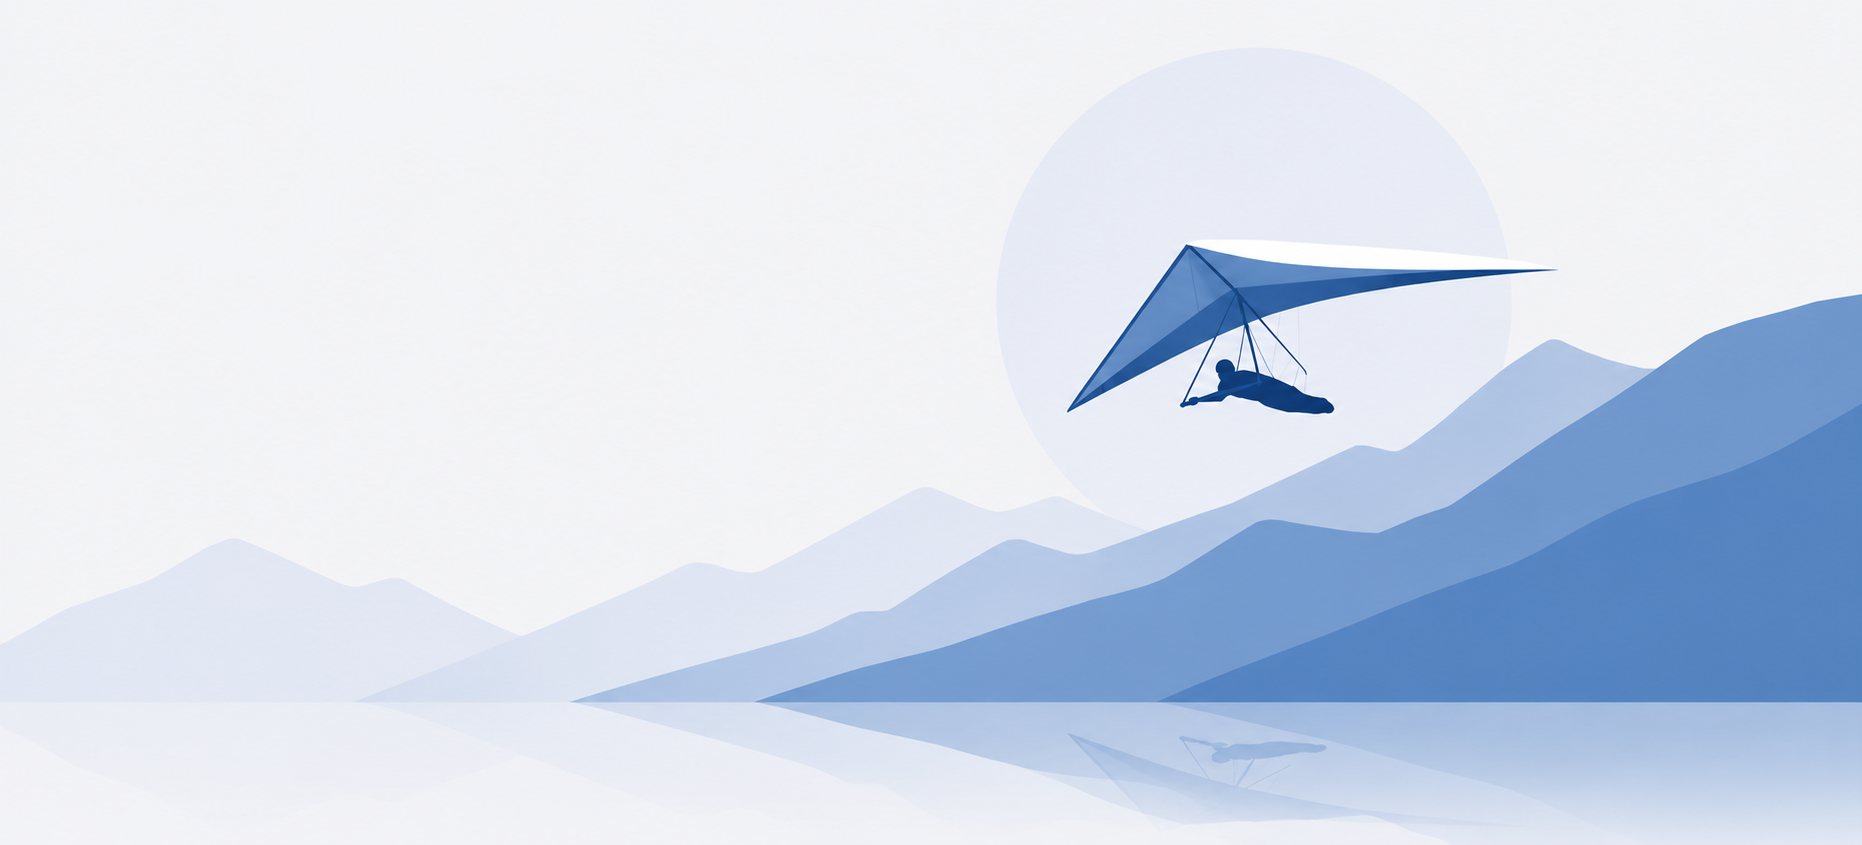
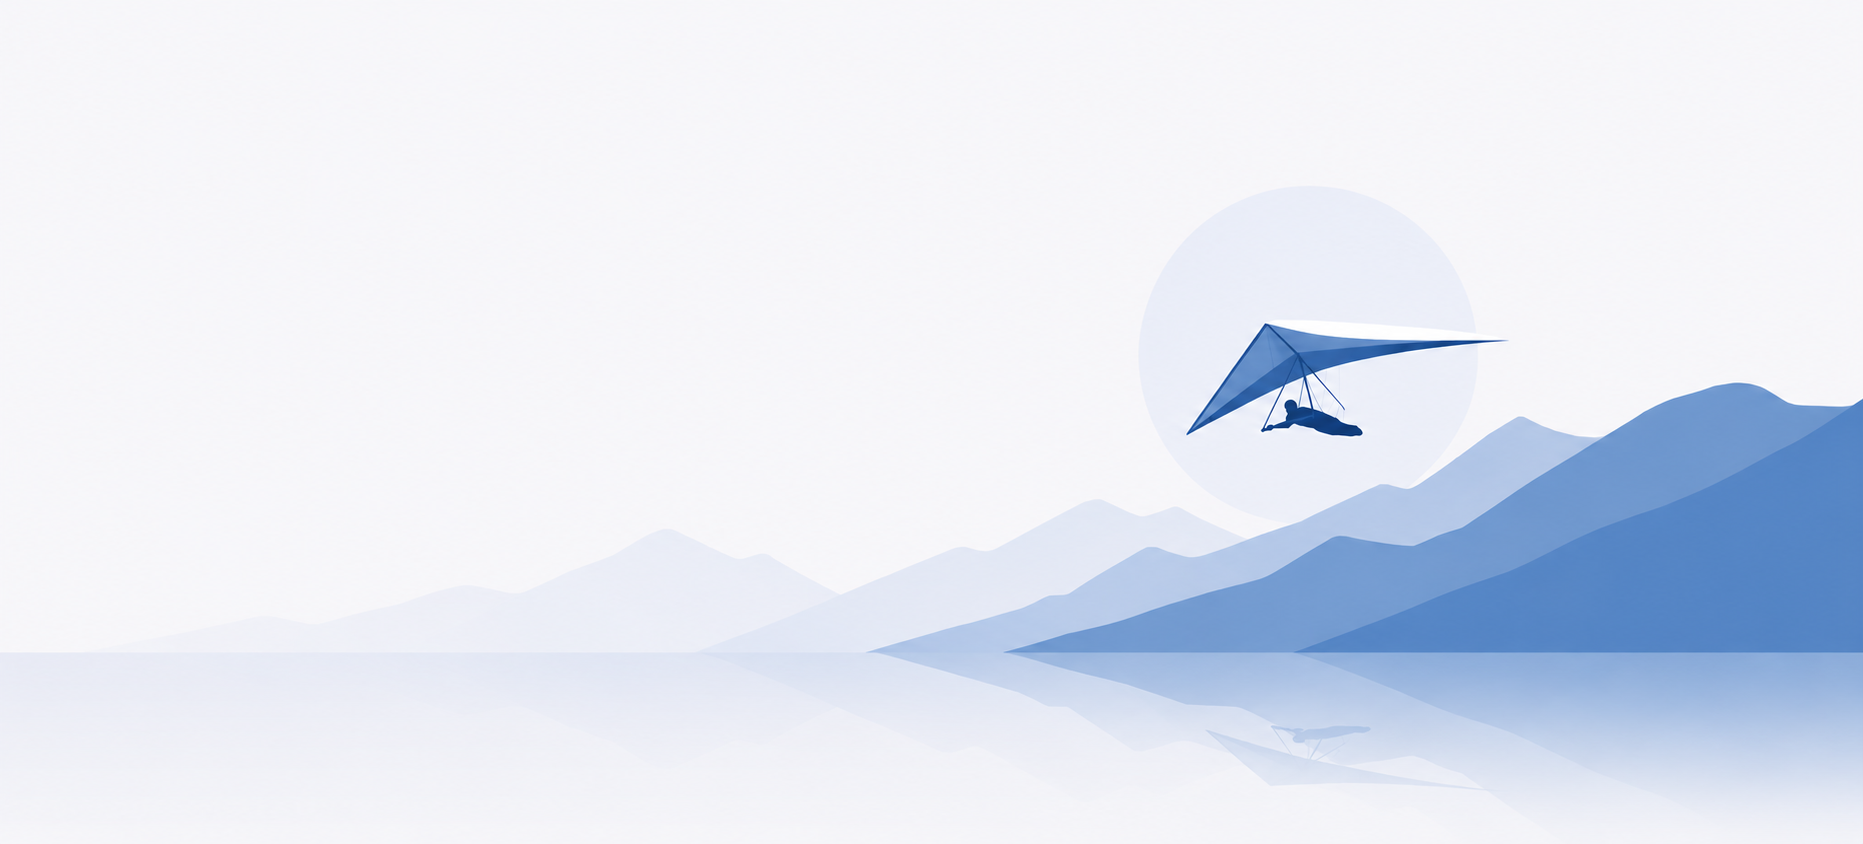
Refactor code structure for improved readability and maintainability

diff --git a/styles/main.css b/styles/main.css
@@ -1626,38 +1626,189 @@ a.btn-primary, a.btn-secondary { text-decoration: none; }
 }
 
 /* ── Responsive ──────────────────────────────────────── */
-@media (max-width: 1024px) {
-    .hero-content      { grid-template-columns: 1fr; gap: 40px; }
-    .features-grid     { grid-template-columns: repeat(2, 1fr); }
-    .pillars-grid      { grid-template-columns: repeat(3, 1fr); }
-    .levels-grid       { grid-template-columns: repeat(3, 1fr); }
-    .dashboard-content { grid-template-columns: 1fr; gap: 40px; }
-    .pricing-wrapper   { grid-template-columns: 1fr; gap: 40px; }
-    .pricing-card      { max-width: 480px; }
+
+/* ─ Hero image sous le texte ≤1300px ───────────────── */
+@media (max-width: 1300px) {
+    /* Passer en colonne : texte au-dessus, image en dessous */
+    .hero {
+        display: flex;
+        flex-direction: column;
+        padding-bottom: 0;
+    }
+
+    .hero .container {
+        order: 1;
+        padding-top: 80px;
+        padding-bottom: 56px;
+    }
+
+    .hero-image {
+        position: relative;
+        inset: auto;
+        order: 2;
+        width: 100%;
+        height: 320px;
+    }
+
+    .hero-paysage {
+        object-position: center 20%;
+    }
 }
 
+/* ─ Tablet paysage ≤1024px ─────────────────────────── */
+@media (max-width: 1024px) {
+    /* Hero */
+    .hero-content      { grid-template-columns: 1fr; }
+
+    /* Features */
+    .features-grid     { grid-template-columns: repeat(2, 1fr); }
+
+    /* Levels & Pillars */
+    .levels-grid       { grid-template-columns: repeat(3, 1fr); }
+    .pillars-grid      { grid-template-columns: repeat(3, 1fr); }
+
+    /* Dashboard */
+    .dashboard-content { grid-template-columns: 1fr; gap: 48px; }
+    .dashboard-mockup  { max-width: 100%; height: auto; min-height: 340px; }
+
+    /* Trust */
+    .trust-content     { grid-template-columns: 1fr; gap: 48px; }
+    .trust-left        { max-width: 500px; margin: 0 auto; width: 100%; }
+    .trust-photo-placeholder { min-height: 260px; }
+
+    /* Pricing */
+    .pricing-wrapper   { grid-template-columns: 1fr; gap: 48px; }
+    .pricing-card      { max-width: 520px; margin: 0 auto; width: 100%; }
+
+    /* Footer */
+    .footer-main       { grid-template-columns: 1fr 1fr; gap: 40px; }
+    .footer-brand      { grid-column: 1 / -1; }
+    .footer-desc       { max-width: 100%; }
+}
+
+/* ─ Tablet portrait ≤768px ─────────────────────────── */
 @media (max-width: 768px) {
-    .hero-text h1      { font-size: 36px; }
-    .section-title     { font-size: 26px; }
+    /* Global */
+    .container         { padding: 0 16px; }
+
+    /* Section spacing */
+    .video-section,
+    .levels, .dashboard, .pillars,
+    .journey, .trust, .pricing, .faq { padding: 56px 0; }
+
+    /* Typography */
+    .hero              { padding-bottom: 0; }
+    .hero .container   { padding-top: 64px; padding-bottom: 48px; }
+    .hero-image        { height: 240px; }
+    .hero-text h1      { font-size: 32px; }
+    .hero-subtitle     { font-size: 15px; }
+    .hero-features     { gap: 12px; }
+    .section-title     { font-size: 24px; }
+    .section-intro     { font-size: 14px; }
+
+    /* Header : masquer le sous-titre logo */
+    .logo-sub          { display: none; }
+
+    /* Features : 2 colonnes avec bordures adaptées */
     .features-grid     { grid-template-columns: repeat(2, 1fr); }
     .feature-card      { border-right: none; border-bottom: 1px solid var(--gray-border); }
-    .feature-card:nth-child(odd) { border-right: 1px solid var(--gray-border); }
-    .pillars-grid      { grid-template-columns: repeat(2, 1fr); }
+    .feature-card:nth-child(odd)    { border-right: 1px solid var(--gray-border); }
+    .feature-card:last-child        { border-bottom: none; }
+    .feature-card:nth-last-child(2) { border-bottom: none; }
+
+    /* Levels & Pillars : 2 colonnes */
     .levels-grid       { grid-template-columns: repeat(2, 1fr); }
+    .pillars-grid      { grid-template-columns: repeat(2, 1fr); }
+
+    /* Dashboard mockup : masquer le menu latéral */
+    .dashboard-mockup  { height: auto; }
+    .dashboard-wrapper { grid-template-columns: 1fr; }
+    .dashboard-menu    { display: none; }
+    .dashboard-main    { grid-template-columns: 1fr; padding: 12px; }
+
+    /* Journey : empilé verticalement */
     .journey-steps     { flex-direction: column; align-items: center; gap: 12px; }
+    .step              { max-width: 300px; width: 100%; }
     .step-arrow        { margin-top: 0; align-self: center; transform: rotate(90deg); }
     .journey-line      { display: none; }
-    .step-connector    { width: 2px; height: 40px; border-top: none; border-left: 2px dashed var(--gray-border); margin: 0; }
-    .container         { padding: 0 16px; }
+
+    /* Trust */
+    .trust-content     { grid-template-columns: 1fr; gap: 40px; }
+    .trust-left        { max-width: 460px; margin: 0 auto; width: 100%; }
+    .trust-photo-placeholder { min-height: 220px; }
+    .trust-text h2     { font-size: 26px; }
+
+    /* Pricing */
+    .pricing-wrapper   { gap: 36px; }
+    .pricing-content h2 { font-size: 28px; }
+
+    /* FAQ */
+    .faq-question      { padding: 18px 20px; font-size: 14px; }
+    .faq-answer        { padding: 0 20px 18px; }
+
+    /* Footer */
+    .footer-main       { grid-template-columns: 1fr; gap: 32px; padding-bottom: 32px; }
+    .footer-brand      { grid-column: auto; }
+    .footer-desc       { max-width: 100%; }
+    .footer-bottom     { flex-direction: column; gap: 6px; text-align: center; padding: 16px 0; }
 }
 
+/* ─ Mobile ≤480px ──────────────────────────────────── */
 @media (max-width: 480px) {
-    .hero              { padding: 56px 0 40px; }
-    .hero-text h1      { font-size: 28px; }
+    /* Global */
+    .container         { padding: 0 14px; }
+
+    /* Section spacing */
+    .video-section,
+    .levels, .dashboard, .pillars,
+    .journey, .trust, .pricing, .faq { padding: 44px 0; }
+
+    /* Hero */
+    .hero              { padding-bottom: 0; }
+    .hero .container   { padding-top: 52px; padding-bottom: 40px; }
+    .hero-image        { height: 190px; }
+    .hero-text h1      { font-size: 26px; }
+    .hero-badge        { font-size: 10px; padding: 3px 9px; }
+    .btn-large         { width: 100%; justify-content: center; padding: 13px 18px; font-size: 14px; }
+    .hero-features     { gap: 10px; }
+    .hero-features li  { font-size: 12px; }
+
+    /* Header */
+    .logo-sub                       { display: none; }
+    .header-actions .btn-secondary  { display: none; }
+
+    /* Features : 1 colonne */
     .features-grid     { grid-template-columns: 1fr; }
-    .feature-card      { border-right: none; }
-    .pillars-grid      { grid-template-columns: 1fr; }
+    .feature-card      { border-right: none; border-bottom: 1px solid var(--gray-border); }
+    .feature-card:nth-child(odd)    { border-right: none; }
+    .feature-card:nth-last-child(2) { border-bottom: 1px solid var(--gray-border); }
+    .feature-card:last-child        { border-bottom: none; }
+
+    /* Levels & Pillars : 1 colonne */
     .levels-grid       { grid-template-columns: 1fr; }
-    .amount            { font-size: 44px; }
-    .header-actions .btn-secondary { display: none; }
+    .pillars-grid      { grid-template-columns: 1fr; }
+
+    /* Journey */
+    .step              { max-width: 100%; }
+    .journey-addon-text { font-size: 11px; }
+
+    /* Trust */
+    .trust-text h2     { font-size: 22px; }
+    .trust-photo-placeholder { min-height: 180px; }
+    .trust-stats       { gap: 20px; }
+
+    /* Pricing */
+    .pricing-content h2 { font-size: 22px; }
+    .pricing-card      { padding: 26px 18px; }
+    .amount            { font-size: 40px; }
+    .pricing-features li { font-size: 14px; }
+
+    /* FAQ */
+    .faq-question      { padding: 15px 16px; font-size: 13px; }
+    .faq-answer        { padding: 0 16px 15px; font-size: 13px; }
+
+    /* Footer */
+    .footer            { padding: 40px 0 0; }
+    .footer-logo       { font-size: 18px; }
+    .footer-bottom     { padding: 14px 0; font-size: 11px; }
 }